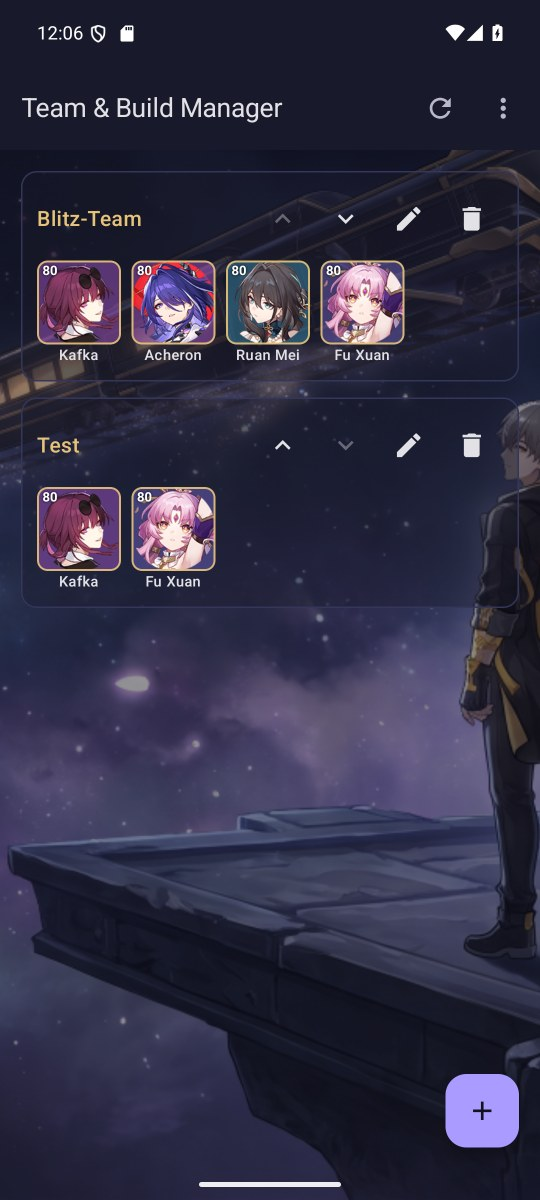
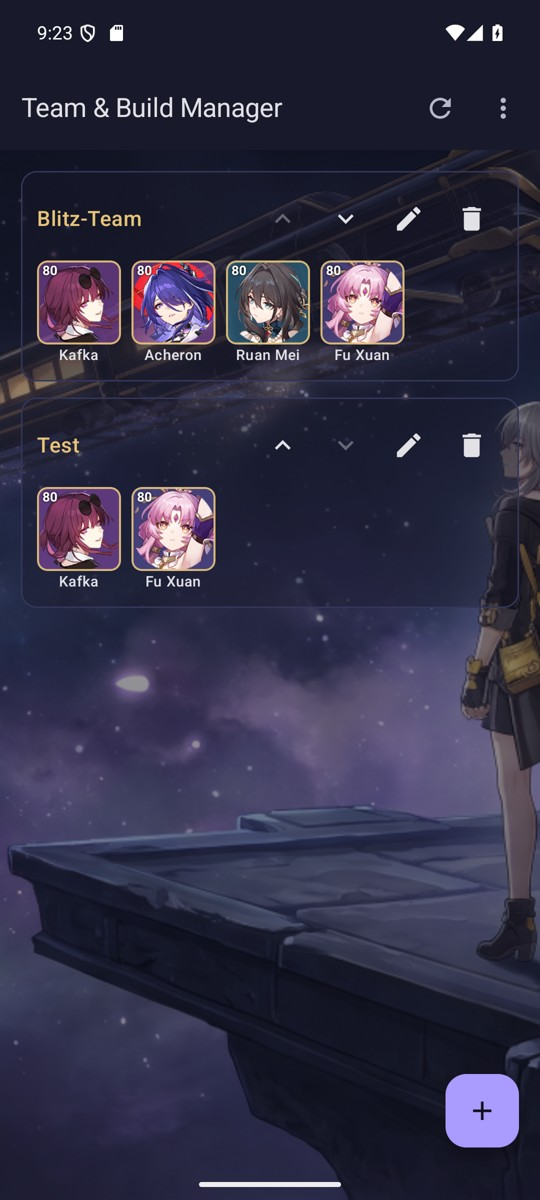
Neues Hintergrundbild honkai-bg-2.jpg in Web, Desktop und Android, Screenshots neu

Changed region(s): [[0.8593, 0.3392, 1.0, 0.8017], [0.0593, 0.0, 0.2667, 0.0617]]

diff --git a/web/index.html b/web/index.html
@@ -31,7 +31,7 @@
     </script>
     <style>
         body {
-            background: url('/assets/images/ui/star-rail-bg.jpg') no-repeat center center fixed;
+            background: url('/assets/images/ui/honkai-bg-2.jpg') no-repeat center center fixed;
             background-size: cover;
             color: #ffffff;
             font-family: system-ui, -apple-system, sans-serif;
@@ -148,7 +148,7 @@
     <!-- MODAL: LOGIN / REGISTRIERUNG -->
     <!-- Eigenes Hintergrundbild (wie die Hauptseite, leicht abgedunkelt), damit die Seite dahinter nicht durchscheint -->
     <div id="authModal" class="fixed inset-0 overflow-y-auto z-50"
-         style="background: linear-gradient(rgba(0,0,0,0.45), rgba(0,0,0,0.45)), url('/assets/images/ui/star-rail-bg.jpg') no-repeat center center / cover;">
+         style="background: linear-gradient(rgba(0,0,0,0.45), rgba(0,0,0,0.45)), url('/assets/images/ui/honkai-bg-2.jpg') no-repeat center center / cover;">
         <div class="min-h-full flex flex-col items-center justify-center gap-6 p-4">
         <h1 class="app-title text-3xl sm:text-4xl font-bold text-accent tracking-wide text-center max-w-4xl" style="text-shadow: 0 2px 12px rgba(0,0,0,0.7);">HONKAI: STAR RAIL Team & Build Manager</h1>
         <div class="bg-cardBg/90 border border-[#332d47] rounded-xl max-w-md w-full p-6 shadow-2xl text-white backdrop-blur-md">

diff --git a/android/app/src/main/java/de/sonictriplex/starrailteams/ui/Theme.kt b/android/app/src/main/java/de/sonictriplex/starrailteams/ui/Theme.kt
@@ -80,7 +80,7 @@ fun rarityColor(rarity: Int): Color = when (rarity) {
 }
 
 /**
- * Vollbild-Hintergrund wie in der Web-Version (shared/assets/images/ui/star-rail-bg.jpg, zugeschnitten wie
+ * Vollbild-Hintergrund wie in der Web-Version (shared/assets/images/ui/honkai-bg-2.jpg, zugeschnitten wie
  * `background-size: cover`), mit dunkler Abdeckung für die Lesbarkeit. Vor dem Laden bleibt es einfarbig.
  */
 @Composable
@@ -91,7 +91,7 @@ fun AppBackground(content: @Composable () -> Unit) {
             try {
                 // Das Bild ist groß; auf Handygröße verkleinert laden spart Speicher
                 val opts = BitmapFactory.Options().apply { inSampleSize = 2 }
-                context.assets.open("assets/images/ui/star-rail-bg.jpg").use { BitmapFactory.decodeStream(it, null, opts) }?.asImageBitmap()
+                context.assets.open("assets/images/ui/honkai-bg-2.jpg").use { BitmapFactory.decodeStream(it, null, opts) }?.asImageBitmap()
             } catch (_: java.io.IOException) {
                 null
             }

diff --git a/desktop/main_window.py b/desktop/main_window.py
@@ -28,7 +28,7 @@ class BackgroundWidget(QWidget):
 
     def __init__(self):
         super().__init__()
-        self._image = QPixmap(os.path.join(IMAGES_DIR, "ui", "star-rail-bg.jpg"))
+        self._image = QPixmap(os.path.join(IMAGES_DIR, "ui", "honkai-bg-2.jpg"))
         self._cache_size = None
         self._sharp = QPixmap()
         self._frost = QPixmap()

diff --git a/README.md b/README.md
@@ -118,7 +118,7 @@ docs/         Screenshots
 - **Stammdaten** (`shared/stammdaten.json`): eine Quelle für alle Clients. Der Desktop spielt sie beim Start in SQLite ein, die Android-App liest sie direkt aus den Assets (und gleicht sie mit dem Server ab), die Web-Version hat sie in der Datenbank. Die Namen von Charakteren, Lichtkegeln und Sets sind englisch wie in der Datenquelle; **Pfade, Elemente, Fähigkeiten und Set-Boni sind deutsch**.
 - **Pfade** heißen wie im Spiel: Die Zerstörung, Die Jagd, Die Gelehrsamkeit, Die Harmonie, Die Nichtigkeit, Die Bewahrung, Der Überfluss, Das Gedenken, Das Hochgefühl. **Elemente:** Physisch, Feuer, Eis, Blitz, Wind, Quantum, Imaginär.
 - **Trailblazer** gibt es je Pfad einmal, ohne Artikel im Namen: `Trailblazer (Gedenken)`. Teams und Builds hängen am Charakternamen, deshalb ändern sich Namen nicht.
-- **Bilder** liegen unter `shared/assets/images/` und liegen nach Typ getrennt in Unterordnern: `characters/<name>.png`, `light_cones/<name>.png`, `relic_sets/<name>.png`, `paths/<pfad>.png` und `elements/<element>.png` (Kleinbuchstaben, alles außer a–z und 0–9 wird zu `_`). In `ui/` liegen Hintergrund (`star-rail-bg.jpg`) und Logo.
+- **Bilder** liegen unter `shared/assets/images/` und liegen nach Typ getrennt in Unterordnern: `characters/<name>.png`, `light_cones/<name>.png`, `relic_sets/<name>.png`, `paths/<pfad>.png` und `elements/<element>.png` (Kleinbuchstaben, alles außer a–z und 0–9 wird zu `_`). In `ui/` liegen Hintergrund (`honkai-bg-2.jpg`) und Logo.
 - **Austauschformat** (`shared/exchange-format.md`): `{"format": "star-rail-team-manager", "version": 1, "builds": [...], "teams": [...]}`. Änderungen am Format müssen in allen Clients nachgezogen werden.
 
 ## Stammdaten aktualisieren

diff --git a/web/README.md b/web/README.md
@@ -186,7 +186,7 @@ Der Android-Emulator erreicht den Rechner unter `http://10.0.2.2:8000`. Aufräum
 
 ## Bilder
 
-Bilder liegen in `../shared/assets/images/`: nach Typ getrennt in Unterordnern: `characters/<name>.png`, `light_cones/<name>.png`, `relic_sets/<name>.png`, dazu `paths/<pfad>.png` und `elements/<element>.png`. Der Name wird kleingeschrieben, alles außer a–z und 0–9 wird zu `_` (aus „Kafka“ wird `characters/kafka.png`, aus „Der Überfluss“ wird `paths/ueberfluss.png` ohne Artikel und mit ue). Hintergrund (`star-rail-bg.jpg`) und Logo liegen in `ui/`. Die Bilder von neuen Einträgen legt `tools/update_stammdaten.py` bzw. der Menüpunkt „Stammdaten aktualisieren“ selbst an.
+Bilder liegen in `../shared/assets/images/`: nach Typ getrennt in Unterordnern: `characters/<name>.png`, `light_cones/<name>.png`, `relic_sets/<name>.png`, dazu `paths/<pfad>.png` und `elements/<element>.png`. Der Name wird kleingeschrieben, alles außer a–z und 0–9 wird zu `_` (aus „Kafka“ wird `characters/kafka.png`, aus „Der Überfluss“ wird `paths/ueberfluss.png` ohne Artikel und mit ue). Hintergrund (`honkai-bg-2.jpg`) und Logo liegen in `ui/`. Die Bilder von neuen Einträgen legt `tools/update_stammdaten.py` bzw. der Menüpunkt „Stammdaten aktualisieren“ selbst an.
 
 ## Hinweis
 

diff --git a/android/README.md b/android/README.md
@@ -55,7 +55,7 @@ Auf dem Handy gibt es keinen Hover: Die Beschreibung der **Lichtkegel-Fähigkeit
 
 ## Aussehen
 
-Immer dunkel wie Desktop und Web (Palette aus `desktop/styles.py`), mit dem Hintergrundbild `shared/assets/images/ui/star-rail-bg.jpg`. Charakterkarten haben einen Verlauf in der Elementfarbe und einen Rahmen nach Seltenheit (5★ golden, 4★ violett).
+Immer dunkel wie Desktop und Web (Palette aus `desktop/styles.py`), mit dem Hintergrundbild `shared/assets/images/ui/honkai-bg-2.jpg`. Charakterkarten haben einen Verlauf in der Elementfarbe und einen Rahmen nach Seltenheit (5★ golden, 4★ violett).
 
 ## Bearbeiten
 
